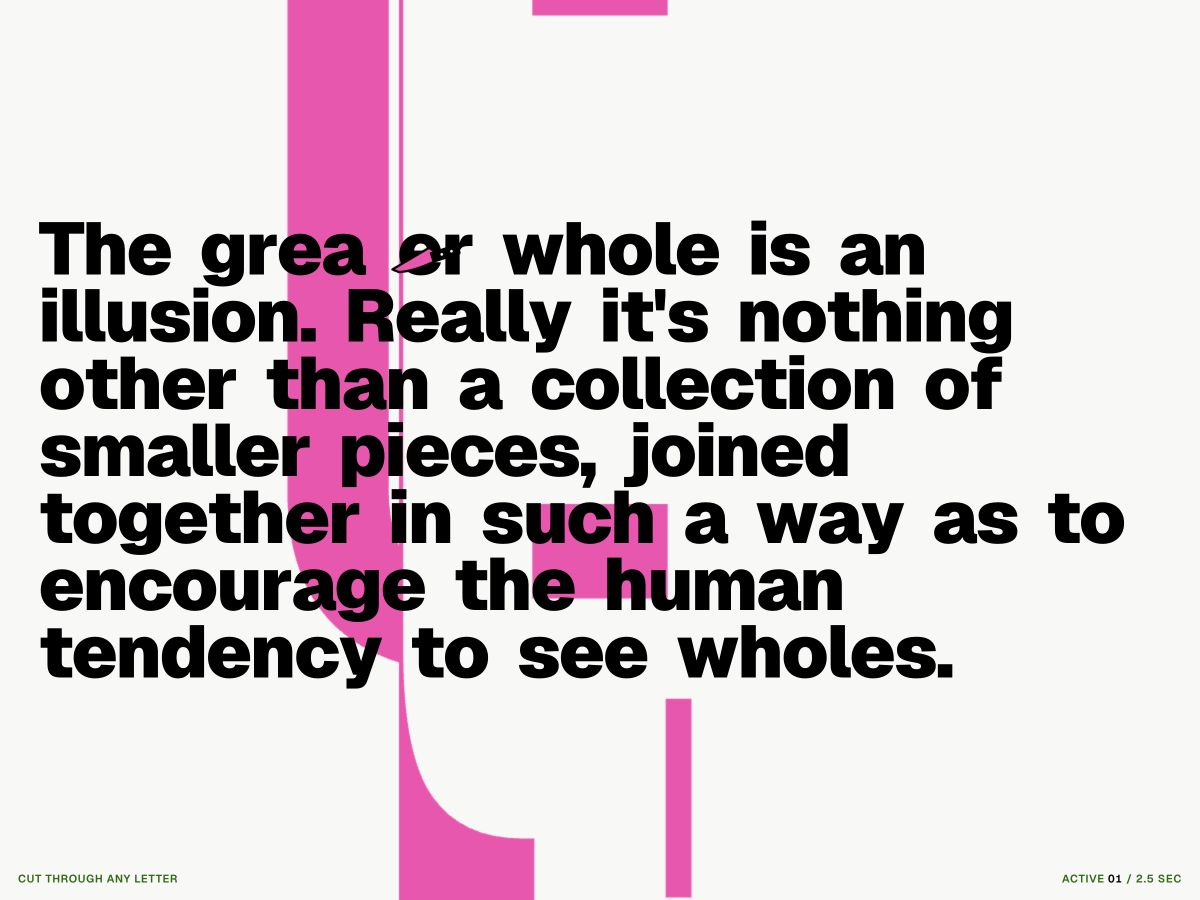
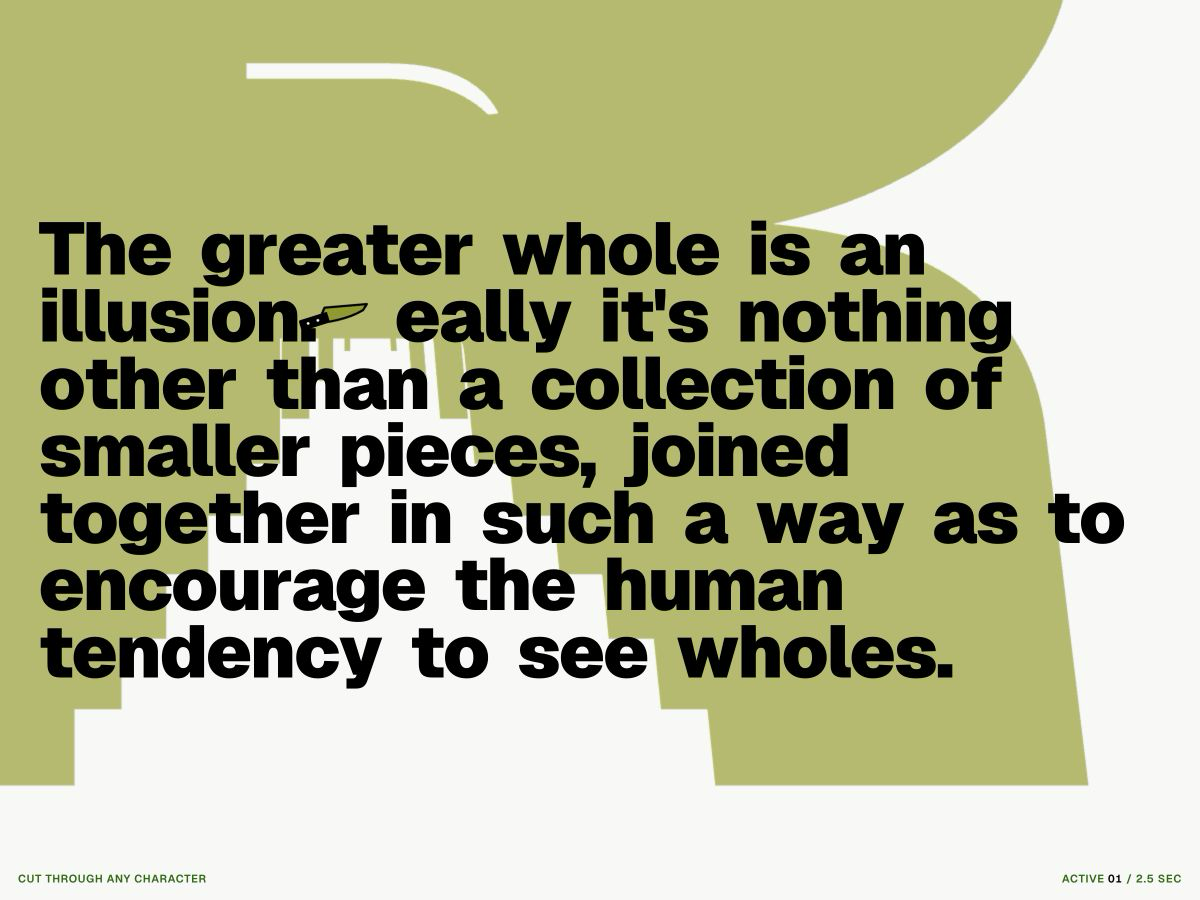
Knife

diff --git a/pieces/033-the-greater-whole/index.html b/pieces/033-the-greater-whole/index.html
@@ -5,7 +5,7 @@
     <meta name="viewport" content="width=device-width, initial-scale=1, viewport-fit=cover" />
     <meta
       name="description"
-      content="A typographic field in which every letter releases a 2.5-second composition made only from itself."
+      content="A typographic field in which every character releases a 2.5-second composition made only from itself."
     />
     <title>The Greater Whole · HyperGal</title>
     <style>
@@ -133,8 +133,7 @@
         white-space: nowrap;
       }
 
-      .glyph,
-      .mark {
+      .glyph {
         display: inline-block;
         font: inherit;
         letter-spacing: inherit;
@@ -320,7 +319,7 @@
 
       @keyframes knife-cut {
         0% { transform: translate(0, 0) rotate(0); }
-        42% { transform: translate(-5px, 5px) rotate(-8deg); }
+        42% { transform: translate(5px, 5px) rotate(8deg); }
         100% { transform: translate(0, 0) rotate(0); }
       }
 
@@ -375,10 +374,12 @@
     <canvas id="field" aria-hidden="true"></canvas>
     <div class="knife-cursor" id="knife-cursor" aria-hidden="true">
       <svg class="knife-icon" id="knife-icon" viewBox="0 0 78 28">
-        <path class="knife-blade" d="M1 13 46 3 51 9 46 19Q23 22 7 18Z" />
-        <path class="knife-handle" d="M45 8h30q2 0 2 2v8q0 2-2 2H45Z" />
-        <circle class="knife-rivet" cx="57" cy="14" r="1.5" />
-        <circle class="knife-rivet" cx="68" cy="14" r="1.5" />
+        <g transform="translate(78 0) scale(-1 1)">
+          <path class="knife-blade" d="M1 13 46 3 51 9 46 19Q23 22 7 18Z" />
+          <path class="knife-handle" d="M45 8h30q2 0 2 2v8q0 2-2 2H45Z" />
+          <circle class="knife-rivet" cx="57" cy="14" r="1.5" />
+          <circle class="knife-rivet" cx="68" cy="14" r="1.5" />
+        </g>
       </svg>
     </div>
     <main>
@@ -389,7 +390,7 @@
         ></blockquote>
       </div>
     </main>
-    <p class="instruction">Cut through any letter</p>
+    <p class="instruction">Cut through any character</p>
     <p class="meter">Active <output id="active-count">00</output> / 2.5 sec</p>
     <p class="sr-only" id="announcement" aria-live="polite"></p>
     <section class="debug-view" id="debug-view" aria-label="Animation comparison grid" hidden>
@@ -503,41 +504,33 @@
             group.className = 'word';
 
             Array.from(word).forEach((character) => {
-              if (/\p{L}/u.test(character)) {
-                const button = document.createElement('button');
-                let lastActivation = -Infinity;
-                button.type = 'button';
-                button.className = 'glyph';
-                button.textContent = character;
-                button.setAttribute('aria-label', `Cut away letter ${character}`);
+              const button = document.createElement('button');
+              let lastActivation = -Infinity;
+              button.type = 'button';
+              button.className = 'glyph';
+              button.textContent = character;
+              button.setAttribute('aria-label', `Cut away ${describeCharacter(character)}`);
 
-                const activate = () => {
-                  const now = performance.now();
-                  if (now - lastActivation < 120) return;
-                  lastActivation = now;
-                  trigger(button, character);
-                  deleteLetter(button, character);
-                };
+              const activate = () => {
+                const now = performance.now();
+                if (now - lastActivation < 120) return;
+                lastActivation = now;
+                trigger(button, character);
+                deleteCharacter(button, character);
+              };
 
-                button.addEventListener('pointerenter', (event) => {
-                  if (event.pointerType !== 'touch') activate();
-                });
-                button.addEventListener('pointerdown', (event) => {
-                  if (event.pointerType === 'touch') activate();
-                });
-                button.addEventListener('keydown', (event) => {
-                  if (event.repeat || (event.key !== 'Enter' && event.key !== ' ')) return;
-                  event.preventDefault();
-                  activate();
-                });
-                group.append(button);
-              } else {
-                const mark = document.createElement('span');
-                mark.className = 'mark';
-                mark.textContent = character;
-                mark.setAttribute('aria-hidden', 'true');
-                group.append(mark);
-              }
+              button.addEventListener('pointerenter', (event) => {
+                if (event.pointerType !== 'touch') activate();
+              });
+              button.addEventListener('pointerdown', (event) => {
+                if (event.pointerType === 'touch') activate();
+              });
+              button.addEventListener('keydown', (event) => {
+                if (event.repeat || (event.key !== 'Enter' && event.key !== ' ')) return;
+                event.preventDefault();
+                activate();
+              });
+              group.append(button);
             });
 
             quote.append(group);
@@ -601,7 +594,7 @@
           if (!frame) frame = requestAnimationFrame(draw);
         }
 
-        function deleteLetter(button, character) {
+        function deleteCharacter(button, character) {
           const wasFocused = document.activeElement === button;
           const remaining = Array.from(quote.querySelectorAll('.glyph:not(.is-deleted)'));
           const index = remaining.indexOf(button);
@@ -611,14 +604,25 @@
           button.disabled = true;
           button.tabIndex = -1;
           button.setAttribute('aria-hidden', 'true');
-          announcement.textContent = `Letter ${character} cut away into a two and a half second animation.`;
+          const description = describeCharacter(character);
+          announcement.textContent = `${description[0].toUpperCase()}${description.slice(1)} cut away into a two and a half second animation.`;
 
           if (wasFocused && next) next.focus();
         }
 
+        function describeCharacter(character) {
+          if (/\p{L}/u.test(character)) return `letter ${character}`;
+          const punctuation = {
+            '.': 'period',
+            ',': 'comma',
+            "'": 'apostrophe'
+          };
+          return punctuation[character] || `character ${character}`;
+        }
+
         function moveKnife(event) {
           if (DEBUG || !finePointer.matches || event.pointerType === 'touch') return;
-          knifeCursor.style.transform = `translate3d(${event.clientX}px, ${event.clientY - 14}px, 0) rotate(-18deg)`;
+          knifeCursor.style.transform = `translate3d(${event.clientX - 72}px, ${event.clientY - 14}px, 0) rotate(-18deg)`;
           knifeCursor.classList.add('is-visible');
         }
 

diff --git a/pieces/033-the-greater-whole/README.md b/pieces/033-the-greater-whole/README.md
@@ -1,11 +1,11 @@
 # The Greater Whole
 
 An interactive typographic piece about the way many small, independent forms
-are read as a single statement. Every letter in the sentence is a control.
-Crossing one with the knife cursor cuts it from the statement and releases a
-composition made only from that letterform. Its place remains fixed so the
-sentence erodes without reflowing. Touch contact and keyboard activation
-provide equivalents where rollover is not available.
+are read as a single statement. Every letter and punctuation mark in the
+sentence is a control. Crossing one with the knife cursor cuts it from the
+statement and releases a composition made only from that character. Its place
+remains fixed so the sentence erodes without reflowing. Touch contact and
+keyboard activation provide equivalents where rollover is not available.
 
 On fine-pointer devices, the native cursor becomes a compact knife whose blade
 switches to the exact color assigned to the newly triggered animation.
